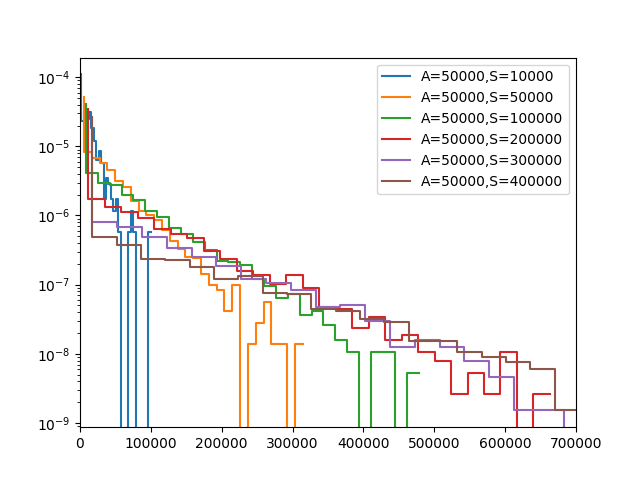
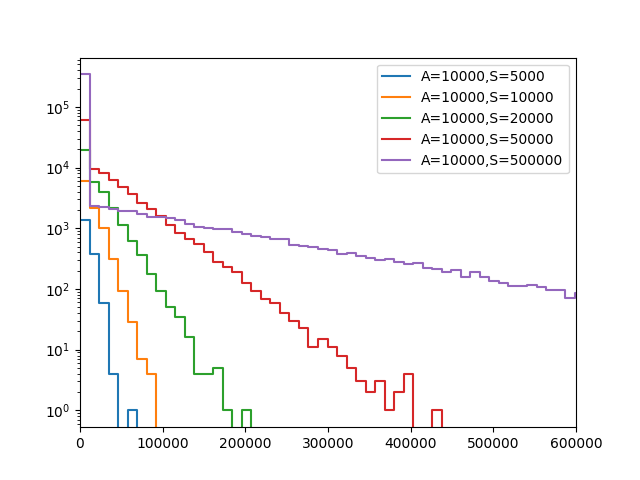
day -1 to submit

diff --git a/hearsay/hearsay.py b/hearsay/hearsay.py
@@ -835,21 +835,24 @@ class C3Net():
 
         Returns
         -------
-        MPL : dict
+        MPL : list
 
-           (ID of CCN,
+        MPL is a list of size the number of nodes in the simulation.
+        Each element of this list contains a list whose first element
+        is: 
+           [ID of CCN,
             ID of CCN (repeated),
-            x,
-            y,
-            time of A event,
-            time of D event)
-        Moreover, if there are contacts:
-           (ID of receiving CCN,
-            ID of emiting CCN,
-            x of emiting CCN,
-            y of emiting CCN,
-            time of C event,
-            time of B event)
+            x coordinate of the position in the Galaxy,
+            y coordinate of the position in the Galaxy,
+            time of the A event,
+            time of the D event]
+        Moreover, if there are contacts with this node:
+           [ID of receiving node,
+            ID of emiting node,
+            x coordinate of the position in the Galaxy of emiting node,
+            y coordinate of the position in the Galaxy of emiting node,
+            time of the C event,
+            time of the B event]
         """
         if p is None:
             p = self.config.p
@@ -1194,6 +1197,11 @@ class Results(C3Net):
 
             firstcontact = 1.e8
 
+            #if k > 0:
+                # t_A = CCN[i][0][4]
+                # t_C = CCN[i][1][4]
+                #firstcontact = CCN[i][1][4] - CCN[i][0][4]
+
             for j in range(1, k):  # traverse contacts
 
                 earlier = CCN[i][j][4] - CCN[i][0][4]
@@ -1437,6 +1445,8 @@ class Results(C3Net):
 
         A = self.params['tau_awakening']
         S = self.params['tau_survive']
+        A = list(set(A))
+        S = list(set(S))
 
         N1 = len(A)
         N2 = len(S)

diff --git a/paper/F5a.py b/paper/F5a.py
@@ -9,10 +9,9 @@ from hearsay import hearsay
 # (a) Variation of tau_survive for fixed tau_awakening
 # -----------------------------------------------------
 
-ta = [50000]
-ts = [10000, 50000, 100000, 200000, 300000, 400000]
-td = [40000]
-
+ta = [10000]
+ts = [5000, 10000, 20000, 50000, 500000]
+td = [32615]
 
 z = pp(ta, ts, td)
 
@@ -32,17 +31,29 @@ df = pd.DataFrame(list(zip(tau_a, tau_s, d_max, fname)),
                   'filename'])
 
 df.to_csv('F5a.csv')
+df = pd.read_csv('F5a.csv')
 
 conf = hearsay.Parser('F5a.ini')
 conf.load_config()
 G = hearsay.C3Net(conf)
 G.set_parameters(df)
+
+print('RUN simulation')
 G.run()
 
+print('REDUCE simulation')
 R = hearsay.Results(G)
 R.load()
 res = R.redux()
 FirstContactTimes = res['lF']
+ 
+minval = 9999.
+maxval = -9999.
+for c1 in FirstContactTimes:
+    imax = max(c1)
+    imin = min(c1) 
+    minval = min(minval, imin)
+    maxval = max(maxval, imax)
 
 fig = plt.figure()
 ax = fig.add_subplot()
@@ -53,16 +64,17 @@ for k, c1 in enumerate(FirstContactTimes):
     imin = min(c1)
     if imax < imin+1.e-4:
         continue
-    breaks = np.linspace(imin, imax, 30)
-    hy, hx = np.histogram(c1, breaks, density=True)
-
-    hx = (breaks[:-1] + breaks[1:])/2
+    breaks = np.linspace(minval, maxval, 200)
+    hy, hx = np.histogram(c1, breaks, density=False)
 
     lbl = (f"A={R.params.iloc[k]['tau_awakening']},"
            f"S={R.params.iloc[k]['tau_survive']}")
-    ax.step(hx, hy, label=lbl)
+    hy = np.append(hy, hy[-1])
+    ax.step(breaks, hy, where='post', label=lbl)
 
 ax.set_yscale('log')
+ax.set_xlim(0, 6.e5)
 ax.legend()
-ax.set_xlim(0, 7.e5)
 fig.savefig('F5a.png')
+fig.savefig('F5a.pdf')
+plt.close()

diff --git a/paper/F5b.py b/paper/F5b.py
@@ -9,9 +9,9 @@ from hearsay import hearsay
 # (b) Variation of tau_awakening for fixed tau_survive
 # -----------------------------------------------------
 
-ta = [5000, 10000, 30000, 50000, 70000, 100000, 500000]
-ts = [100000]
-td = [40000]
+ta = [1000, 2000, 5000, 10000, 20000]
+ts = [10000]
+td = [32615]
 
 z = pp(ta, ts, td)
 
@@ -31,6 +31,7 @@ df = pd.DataFrame(list(zip(tau_a, tau_s, d_max, fname)),
                   'filename'])
 
 df.to_csv('F5b.csv')
+df = pd.read_csv('F5b.csv')
 
 conf = hearsay.Parser('F5b.ini')
 conf.load_config()
@@ -43,12 +44,16 @@ R.load()
 res = R.redux()
 FirstContactTimes = res['lH']
 
+minval = 9999.
+maxval = -9999.
+for c1 in FirstContactTimes:
+    imax = max(c1)
+    imin = min(c1) 
+    minval = min(minval, imin)
+    maxval = max(maxval, imax)
+
 fig = plt.figure()
 ax = fig.add_subplot()
-
-mx = 2.e5
-mn = 0
-
 for k, c1 in enumerate(FirstContactTimes):
     if len(c1) == 0:
         continue
@@ -56,15 +61,16 @@ for k, c1 in enumerate(FirstContactTimes):
     imin = min(c1)
     if imax < imin+1.e-4:
         continue
-    breaks = np.linspace(mn, mx, 50)
-    hy, hx = np.histogram(c1, breaks, density=True)
-
-    hx = (breaks[:-1] + breaks[1:])/2
+    breaks = np.linspace(minval, maxval, 50)
+    hy, hx = np.histogram(c1, breaks, density=False)
 
     lbl = (f"A={R.params.iloc[k]['tau_awakening']},"
            f"S={R.params.iloc[k]['tau_survive']}")
-    ax.step(hx, hy, label=lbl)
+    hy = np.append(hy, hy[-1])
+    ax.step(breaks, hy, where='post', label=lbl)
 
 ax.set_yscale('log')
 ax.legend()
 fig.savefig('F5b.png')
+fig.savefig('F5b.pdf')
+plt.close()

diff --git a/paper/F3_compute.py b/paper/F3_compute.py
@@ -1,17 +1,26 @@
 from hearsay import hearsay
 import pickle
 import pandas as pd
-
+from sys import argv
 
 ####################################################
 # Figura 3
 ####################################################
 
-df = pd.read_csv('F3.csv')
-config = hearsay.Parser('F3.ini')
-config.load_config()
-G = hearsay.C3Net(config)
-G.set_parameters(df)
+if len(argv) > 1:
+    conf = hearsay.Parser(argv[1])
+else:
+    conf = hearsay.Parser()
+
+G = hearsay.C3Net(conf)
+G.set_parameters() 
+
+
+#df = pd.read_csv('F2a.csv')
+#config = hearsay.Parser('F2a.ini')
+#config.load_config()
+#G = hearsay.C3Net(config)
+#G.set_parameters(df)
 
 R = hearsay.Results(G)
 R.load()
@@ -23,7 +32,11 @@ fname = fn.dir_output + fn.exp_id
 fname1 = fname + '/m1.pk'
 fname2 = fname + '/m2.pk'
 
-with open(fname1, 'w') as pickle_file:
-    pickle.dump(m1, pickle_file)
-with open(fname2, 'w') as pickle_file:
-    pickle.dump(m2, pickle_file)
+
+f1 = open(fname1, 'wb')
+pickle.dump(m1, f1)
+f1.close()
+
+f2 = open(fname2, 'wb')
+pickle.dump(m2, f2)
+f2.close()

diff --git a/paper/F3_plot.py b/paper/F3_plot.py
@@ -6,27 +6,33 @@ from matplotlib import pyplot as plt
 from scipy import ndimage
 import matplotlib.cm as cm
 from mpl_toolkits.axes_grid1 import make_axes_locatable
+import pandas as pd
 
 
 ####################################################
 # Figura 3
 ####################################################
 
+#df = pd.read_csv('F2a.csv')
+#config = hearsay.Parser('F2a.ini')
 
 if len(argv) > 1:
-    conf = hearsay.Parser(argv[1])
+    config = hearsay.Parser(argv[1])
+    config.load_config()
+    G = hearsay.C3Net(config)
+    G.set_parameters() 
 else:
+    df = pd.read_csv('../out/KREE_02/params.csv')
+    config = hearsay.Parser('../out/KREE_02/KREE_02.ini')
     conf = hearsay.Parser()
+    G = hearsay.C3Net(config)
+    G.set_parameters(df)  
 
-G = hearsay.C3Net(conf)
-G.set_parameters()
+ 
 R = hearsay.Results(G)
-R.load()  
+R.load()
 
-
-R.redux_2d()
-
-fn = R.config.filenames
+fn = G.config.filenames
 fname = fn.dir_output + fn.exp_id
 fname1 = fname + '/m1.pk'
 fname2 = fname + '/m2.pk'

diff --git a/paper/F2a.py b/paper/F2a.py
@@ -12,9 +12,9 @@ from hearsay import hearsay
 
 # 1) Generate points in the paramter space to sample :::::::::::::::::::
 
-ta = [100, 500, 1000, 2000, 4000, 5000, 10000, 50000]
-ts = [10000]
-td = [40000]
+ta = [100, 500, 1000, 2000, 4000, 5000]
+ts = [40000]
+td = [32615]
 
 z = pp(ta, ts, td)
 
@@ -44,6 +44,18 @@ config = hearsay.Parser('F2a.ini')
 config.load_config()
 G = hearsay.C3Net(config)
 G.set_parameters(df)
+
+print(G.params)
+ok = input('ok?')
+
+print(G.config.p)
+ok = input('ok?')
+
+print(G.config.filenames)
+ok = input('ok?')
+
+
+
 
 G.run()
 
@@ -78,3 +90,5 @@ for k, inbox in enumerate(ib):
 ax.set_xscale('log')
 ax.legend()
 fig.savefig('F2a.png')
+fig.savefig('F2a.pdf')
+plt.close()

diff --git a/paper/F2b.py b/paper/F2b.py
@@ -13,8 +13,8 @@ from matplotlib import pyplot as plt
 # 1) Generate points in the paramter space to sample :::::::::::::::::::
 
 ta = [1000]
-ts = [3000, 4000, 5000, 10000, 50000]
-td = [40000]
+ts = [5000, 10000, 20000, 50000]
+td = [32615]
 
 z = pp(ta, ts, td)
 
@@ -70,9 +70,11 @@ for k, inbox in enumerate(ib):
     yy = np.cumsum(hy)
 
     lbl = (f"A={R.params.iloc[k]['tau_awakening']},"
-           f"D={R.params.iloc[k]['D_max']}")
+           f"S={R.params.iloc[k]['tau_survive']}")
     ax.step(xx, yy, label=lbl)
 
 ax.set_xscale('log')
 ax.legend()
 fig.savefig('F2b.png')
+fig.savefig('F2b.pdf')
+plt.close()

diff --git a/doc/source/sci/proposal.rst b/doc/source/sci/proposal.rst
@@ -3,6 +3,31 @@ Proposal
 ************
 
 
+The abundance of intelligent civilisations in the Galaxy is a
+  longstanding question related to the expected probability
+  of success for SETI programs.  Traditional approaches to quantify
+  this problem use either frequentist inferences or numerical
+  simulations. The key challenges in both cases are the proper
+  treatment of the time variable and the large uncertainties on the
+  intervening factors. Here we present a three-parametric
+  statistical model of the network of causally connected locations in
+  a simplified Galaxy, with the restriction of a maximum distance
+  range for any signal. We implement Monte Carlo simulations of this
+  model to explore the parameter space and analyse the probabilities
+  of causal contacts for random locations in the Galaxy.
+  
+We find
+  that, given the enormous distances involved, causal contacts
+  between civilisations would be very rare. The odds to make a
+  contact in a few years of monitoring are low for most models,
+  except for those of a galaxy densely populated with ancient
+  civilisations. The probability of causal contacts increases with
+  the lifetime of civilisations more significantly than with the
+  number of active civilisations. We show that the maximum
+  probability of making a contact occurs when a civilization
+  discovers the required communication technology.
+
+
 Methods and working hypothesis
 ==============================
 
